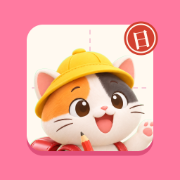
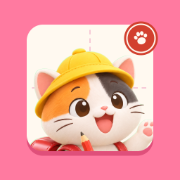
고양이 더 살리기: 발바닥 도장(오프닝·아이콘), 단짝의 오늘의 교정, 쓰다듬기 반응

Changed region(s): [[0.7222, 0.1667, 0.8333, 0.2778]]

diff --git a/app.js b/app.js
@@ -511,7 +511,7 @@ function homeView() {
   return `
   <section class="hero">
     <img class="hero-img" src="${IMAGES.home}" alt="화창한 아침 교실, 창밖의 벚꽃과 책상 위의 한자 연습장" width="1600" height="905" fetchpriority="high">
-    <div class="hero-mascot">${mascot('mascot', '')}<span class="says">${hello}</span></div>
+    <button class="hero-mascot${state.catHop ? ' hop' : ''}" data-act="petCat" aria-label="${buddy().name} 쓰다듬기">${mascot(state.catHop ? 'cheer' : 'mascot', '')}<span class="says">${state.catSay || hello}</span></button>
     <div class="hero-text">
       <span class="hero-date">${date} ${weekday}</span>
       <span class="lvchip"><b class="num">Lv.${playerLevel()}</b>${rankName()}</span>
@@ -525,6 +525,7 @@ function homeView() {
   </section>
   ${nextGoal}
   <div class="homegrid">${todayKanji}${stampCard}</div>
+  ${correctionCardHTML()}
   ${missionsHTML(t, goal)}
   <div class="homegrid">${reviewCardHTML()}${mockCardHTML()}</div>
   <div class="panel">
@@ -903,6 +904,36 @@ function grammarView() {
   <div class="panel glist">${items}${empty}</div>`
 }
 
+// ───── 단짝 고양이 ─────
+// 쓰다듬으면 하는 말 (성격마다 조금씩 다르게)
+const CAT_LINES = {
+  mike: ['헷갈리는 건 내가 기억해 둘게요', '한 교시만 하고 가요', '어제 틀린 거, 오늘은 맞힐 거예요', '같이 하면 금방이에요'],
+  kuro: ['흥, 오늘도 왔네요', '틀린 문제는 다 적어 뒀어요', '조금만 더 하면 별 세 개예요'],
+  shiro: ['천천히 해도 괜찮아요', '오늘 공부, 반짝반짝 빛났어요', '쉬었다 가도 돼요'],
+  mikan: ['한 판 더 가요', '정답 맞히면 점프할 거예요', '오늘 기운 넘쳐요'],
+  moka: ['헷갈리는 짝부터 정리해 봐요', '오늘은 복습부터 어때요', '차분히 하나씩요'],
+  hachi: ['달려 볼까요', '연속 정답 기록 깨 봐요', '준비 운동은 끝났어요'],
+  gin: ['조용히, 꾸준히', '한 문제씩 쌓이고 있어요', '오늘도 수고했어요'],
+  tora: ['어려운 것도 덤벼 봐요', '틀려도 다시 하면 돼요', '오늘은 몇 개 맞힐까요'],
+  maru: ['조금만 하고 같이 쉬어요', '동글동글, 오늘도 한 교시', '졸리면 문제 하나만요'],
+  sabi: ['저, 저기… 같이 공부해요', '조용히 응원하고 있어요', '오늘도 와 줘서 고마워요'],
+  mofu: ['폭신하게 시작해 봐요', '천천히 와도 기다릴게요', '오늘 배운 거 꼭 안아 둘게요'],
+}
+// 오늘의 교정: 날마다 헷갈리는 문법 짝 하나를 단짝이 짚어 준다
+function correctionCardHTML() {
+  const open = GRAMMAR.filter(g => isOpen('grammar', g.level) && g.diff && (g.similar || []).some(id => { const x = GRAMMAR.find(y => y.id === id); return x && isOpen('grammar', x.level) }))
+  if (!open.length) return ''
+  const d = todayStr(), seed = [...d].reduce((n, ch) => (n * 37 + ch.charCodeAt(0)) % 100019, 11)
+  const g = open[seed % open.length]
+  const sims = g.similar.map(id => GRAMMAR.find(y => y.id === id)).filter(x => x && isOpen('grammar', x.level)).slice(0, 2)
+  const b = buddy()
+  return `<div class="panel fixcard">
+    <div class="fixhead">${mascot('think', 'fixcat')}<div><div class="eyebrow">${b.name}의 오늘의 교정</div><b>이 둘, 헷갈리지 않나요</b></div></div>
+    <div class="fixpair"><button class="gsimbtn" data-act="grammarJump" data-id="${g.id}"><span lang="ja">${furi(g.pattern)}</span><small>${g.level} · ${g.meaning}</small></button>
+      ${sims.map(x => `<span class="fixvs">vs</span><button class="gsimbtn" data-act="grammarJump" data-id="${x.id}"><span lang="ja">${furi(x.pattern)}</span><small>${x.level} · ${x.meaning}</small></button>`).join('')}</div>
+    <p class="fixdiff">${g.diff}</p></div>`
+}
+
 // ───── 성취감: 오늘의 미션 · 복습 · 모의고사 · 성적표 ─────
 const MISSIONS = [
   { id: 'cards10', label: '단어 카드 10장 보기', need: 10, get: t => t.cards, c: 'var(--sky)' },
@@ -1067,6 +1098,7 @@ function talkView() {
 }
 
 // ───── 퀘스트 지도 ─────
+const PAW = '<svg class="pawsvg" viewBox="0 0 24 24" aria-hidden="true"><ellipse cx="12" cy="15.6" rx="5.2" ry="4.3"/><ellipse cx="5.9" cy="10.2" rx="2.1" ry="2.5" transform="rotate(-18 5.9 10.2)"/><ellipse cx="9.7" cy="6.6" rx="2.2" ry="2.7" transform="rotate(-6 9.7 6.6)"/><ellipse cx="14.3" cy="6.6" rx="2.2" ry="2.7" transform="rotate(6 14.3 6.6)"/><ellipse cx="18.1" cy="10.2" rx="2.1" ry="2.5" transform="rotate(18 18.1 10.2)"/></svg>'
 const LOCK = '<svg class="icon" viewBox="0 0 24 24" aria-hidden="true"><path d="M7 11V7a5 5 0 0 1 10 0v4 M5 11h14v10H5z"/></svg>'
 function starsHTML(n) { return `<span class="stars" aria-label="별 ${n}개">${[1, 2, 3].map(k => `<i class="${k <= n ? 'on' : ''}">★</i>`).join('')}</span>` }
 
@@ -1431,6 +1463,15 @@ const ACTIONS = {
   quizMode(btn) { state.quizMode = btn.dataset.mode; newQuiz() },
   quizGrade(btn) { state.quizGrade = Number(btn.dataset.grade); newQuiz() },
   restartQuiz() { newQuiz() },
+  petCat() {
+    const b = buddy(), lines = CAT_LINES[b.id] || CAT_LINES.mike
+    let say; do { say = pickOne(lines) } while (lines.length > 1 && say === state.catSay)
+    state.catSay = say; state.catHop = true
+    SFX.tap(); render()
+    clearTimeout(state.catHopTimer)
+    state.catHopTimer = setTimeout(() => { state.catHop = false; if (state.view === 'home') render() }, 1400)
+    return true
+  },
   startReview() { state.quizMode = 'review'; state.view = 'quiz'; newQuiz(); render(); window.scrollTo(0, 0); return true },
   startMock(btn) { if (!isOpen('grammar', btn.dataset.level)) return true; state.mockLevel = btn.dataset.level; state.quizMode = 'mock'; state.view = 'quiz'; newQuiz(); render(); window.scrollTo(0, 0); return true },
   openChest(btn) {
@@ -1631,7 +1672,7 @@ function showOpening() {
         <svg class="op-guide" viewBox="0 0 100 100" aria-hidden="true"><path d="M50 4V96" pathLength="1"/><path d="M4 50H96" pathLength="1"/></svg>
         <img class="op-mascot" src="${catImage(buddy())}" alt="" width="320" height="320">
       </div>
-      <span class="op-hanko" lang="ja">日</span>
+      <span class="op-hanko">${PAW}</span>
     </div>
     <h1 class="op-title">${[...title].map((c, i) => c === ' ' ? '<span class="sp"> </span>' : `<span style="--i:${i}">${c}</span>`).join('')}</h1>
     <p class="op-sub"><span class="lvchip"><b class="num">Lv.${playerLevel()}</b>${rankName()}</span>${s >= 2 ? `<span class="op-streak">${s}일 연속</span>` : ''}</p>

diff --git a/style.css b/style.css
@@ -834,3 +834,16 @@ button.gradbadge { border: 0; cursor: pointer; font-family: var(--round); }
 .brand .mark.paw svg { width: 22px; height: 22px; fill: #fff; transition: transform 200ms var(--spring); }
 .brand:active .mark.paw svg { transform: scale(0.82); }
 @media (hover: hover) { .brand:hover .mark.paw svg { transform: rotate(-10deg) scale(1.08); } }
+
+/* ───── 단짝 고양이 더 살리기 ───── */
+button.hero-mascot { border: 0; background: none; padding: 0; cursor: pointer; font: inherit; text-align: left; }
+.hero-mascot.hop { animation: catBounce 900ms var(--spring) both; }
+@keyframes catBounce { 0% { transform: translateY(0) scale(1); } 25% { transform: translateY(-22%) scale(1.06, 0.94); } 55% { transform: translateY(0) scale(0.94, 1.06); } 75% { transform: translateY(-6%); } 100% { transform: none; } }
+.op-hanko .pawsvg { width: 40px; height: 40px; fill: #fff9f0; }
+.fixcard { padding: 14px 18px 16px; }
+.fixhead { display: flex; align-items: center; gap: 12px; margin-bottom: 10px; }
+.fixhead .fixcat { width: 56px; height: 56px; flex: none; }
+.fixhead b { display: block; font-family: var(--round); font-size: 18px; font-weight: 400; }
+.fixpair { display: flex; flex-wrap: wrap; align-items: center; gap: 6px; }
+.fixvs { font-family: var(--round); font-size: 13px; color: var(--ink-3); }
+.fixdiff { margin: 10px 0 0; padding: 10px 12px; border-radius: 12px; background: var(--raised); font-size: 14px; line-height: 1.6; color: var(--ink-2); }

diff --git a/sw.js b/sw.js
@@ -1,6 +1,6 @@
 // 오프라인용 서비스 워커: 앱 파일을 폰에 저장해 두고 인터넷 없이도 연다.
 // 인터넷이 될 때는 항상 새 파일을 받고, 그 사본을 저장해 둔다.
-const VERSION = 'v37'
+const VERSION = 'v38'
 const CACHE = `nihongo-${VERSION}`
 const FILES = [
   './',
